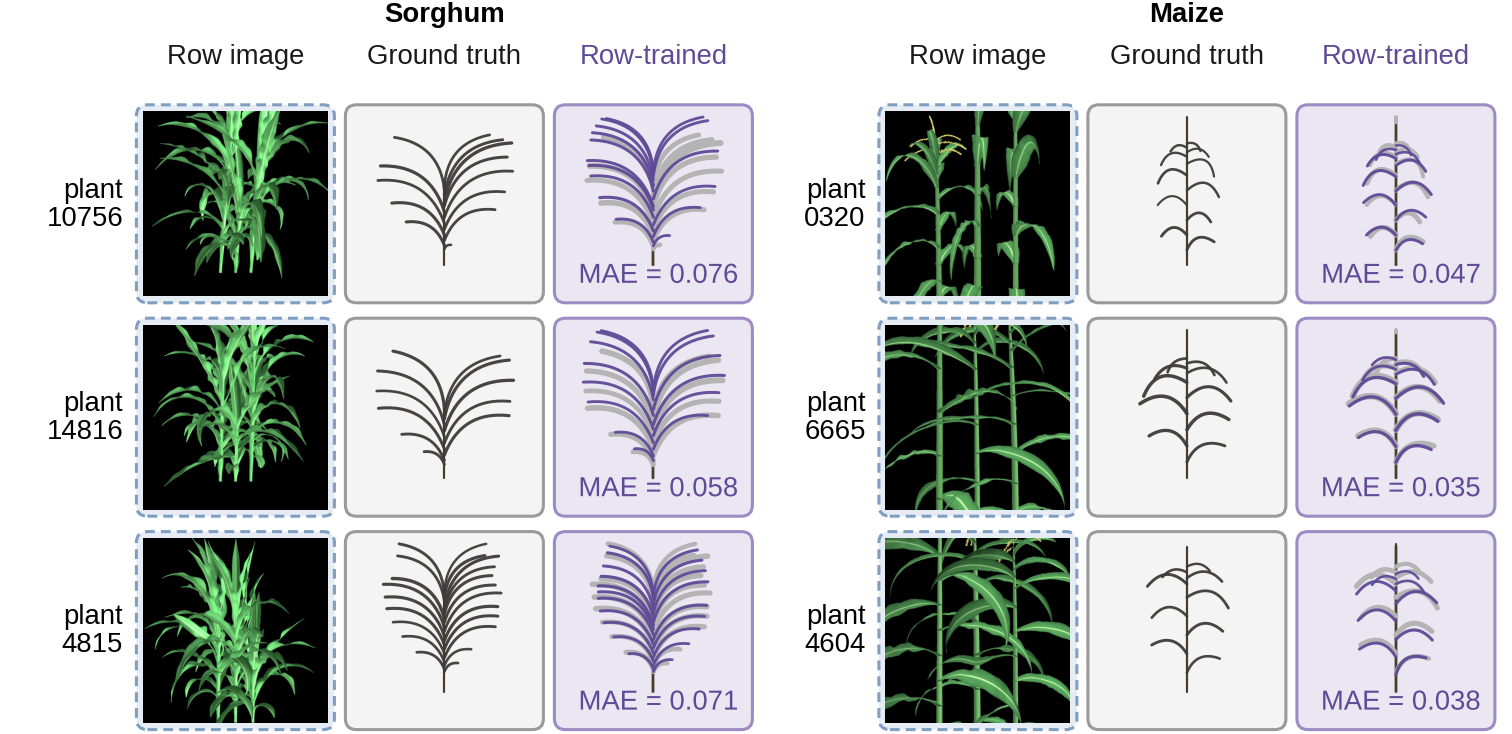
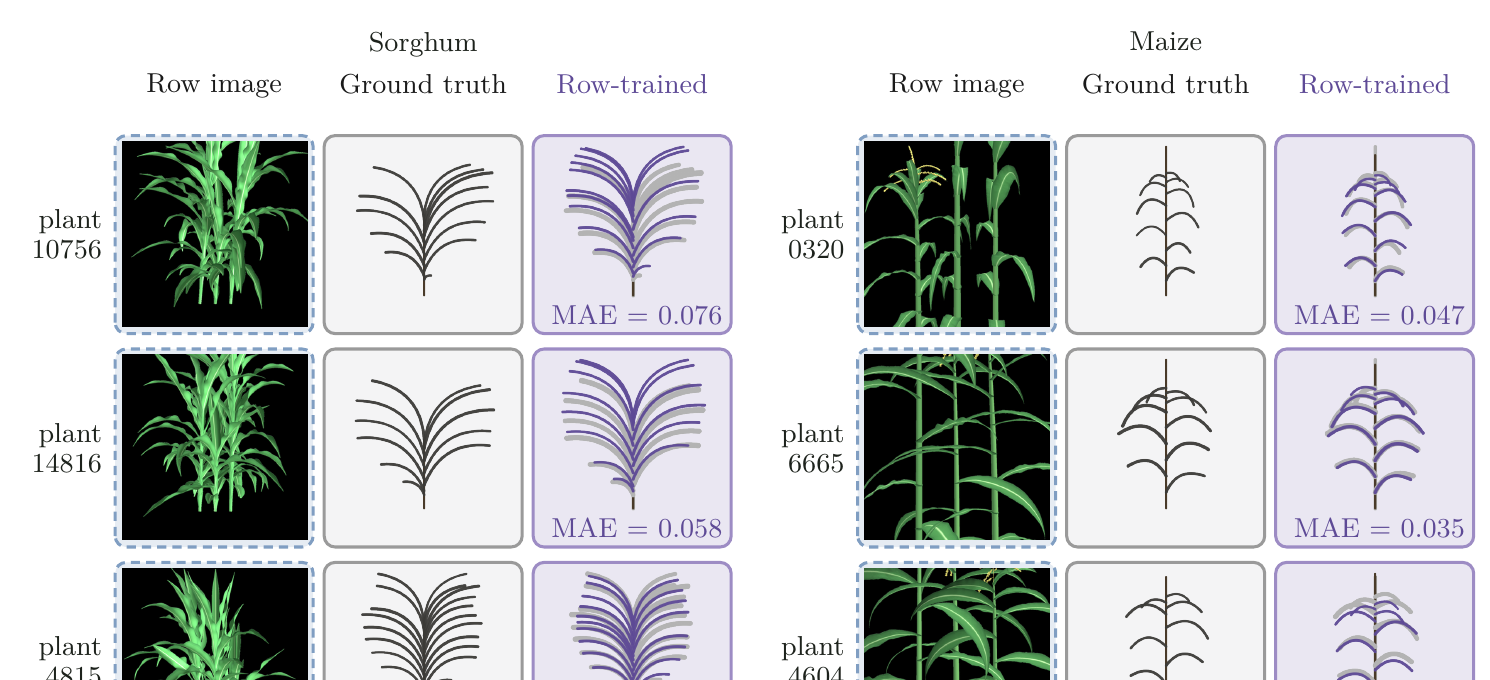
Fig. 5 as TikZ (user request): figures/make_fig5_tikz.py builds it on _scene.Scene like Figs. 2-3 (TikZ boxes and text, tiles in Figures/fig5/), same plants, procedural models and MAE values as the PDF version; main.tex and main_clean.tex input Figures/fig_rows_examples_tikz; both builds compile.

diff --git a/figures/pages/ugg_compare/index.html b/figures/pages/ugg_compare/index.html
@@ -114,7 +114,7 @@
   </section>
   <section aria-labelledby="h-fig-rows-examples">
     <h2 id="h-fig-rows-examples">Fig. 5 · Crop-row examples</h2>
-    <p><b>In the paper now: procedural models.</b> Same plants and the same row-trained predictions as before (rerun with the same seeds; every Chamfer value reproduced). The ground-truth column draws the center plant's true procedural model; the row-trained column draws the model the network writes (purple) over the truth (grey), with its leaf-parameter MAE (normalised fields, the error of Table 7; lower is better).</p>
+    <p><b>In the paper now: procedural models, as TikZ</b> (boxes and text in TikZ, tiles as embedded images, like Figs. 2 and 3; the right image is cropped from the compiled paper). Same plants and the same row-trained predictions as before (rerun with the same seeds; every Chamfer value reproduced). The ground-truth column draws the center plant's true procedural model; the row-trained column draws the model the network writes (purple) over the truth (grey), with its leaf-parameter MAE (normalised fields, the error of Table 7; lower is better).</p>
     <div class="pair">
       <figure class="paper"><div class="figbox"><img loading="lazy" src="img/fig_rows_examples_ugg.png" alt="Crop-row examples with point clouds and Chamfer"></div><figcaption>Previous (point clouds, CD)</figcaption></figure>
       <figure class="ugg"><div class="figbox"><img loading="lazy" src="img/fig_rows_examples_proc.png" alt="Crop-row examples with procedural models and leaf-parameter MAE"></div><figcaption>In the paper now (procedural models, MAE)</figcaption></figure>

diff --git a/paper/overleaf/Figures/fig_rows_examples_tikz.tex b/paper/overleaf/Figures/fig_rows_examples_tikz.tex
@@ -1,0 +1,72 @@
+% Generated by figures/_scene.py (Scene.render_tikz) for 'Fig 5 crop-row examples (procedural)'; do not edit by hand, re-run the figure script.
+% 6.875 x 3.3400000000000003 in at 100 %; needs \usetikzlibrary{arrows.meta}; images in Figures/fig5/.
+{%
+\definecolor{c1A1A1A}{HTML}{1A1A1A}%
+\definecolor{c1D221C}{HTML}{1D221C}%
+\definecolor{c5E4A96}{HTML}{5E4A96}%
+\definecolor{c809EC2}{HTML}{809EC2}%
+\definecolor{c9A9A9A}{HTML}{9A9A9A}%
+\definecolor{c9D8CC4}{HTML}{9D8CC4}%
+\definecolor{cE6ECF3}{HTML}{E6ECF3}%
+\definecolor{cEAE7F2}{HTML}{EAE7F2}%
+\definecolor{cF4F4F5}{HTML}{F4F4F5}%
+\begin{tikzpicture}[x=1in, y=1in]%
+\useasboundingbox (0,0) rectangle (6.8750,3.3400);
+\draw[draw=c809EC2, line width=1.000pt, fill=cE6ECF3, dash pattern=on 3.00pt off 2.00pt, rounded corners=0.0500in] (0.6200,1.9600) rectangle (1.5200,2.8600);
+\draw[draw=c9A9A9A, line width=1.000pt, fill=cF4F4F5, rounded corners=0.0500in] (1.5700,1.9600) rectangle (2.4700,2.8600);
+\draw[draw=c9D8CC4, line width=1.000pt, fill=cEAE7F2, rounded corners=0.0500in] (2.5200,1.9600) rectangle (3.4200,2.8600);
+\draw[draw=c809EC2, line width=1.000pt, fill=cE6ECF3, dash pattern=on 3.00pt off 2.00pt, rounded corners=0.0500in] (0.6200,0.9900) rectangle (1.5200,1.8900);
+\draw[draw=c9A9A9A, line width=1.000pt, fill=cF4F4F5, rounded corners=0.0500in] (1.5700,0.9900) rectangle (2.4700,1.8900);
+\draw[draw=c9D8CC4, line width=1.000pt, fill=cEAE7F2, rounded corners=0.0500in] (2.5200,0.9900) rectangle (3.4200,1.8900);
+\draw[draw=c809EC2, line width=1.000pt, fill=cE6ECF3, dash pattern=on 3.00pt off 2.00pt, rounded corners=0.0500in] (0.6200,0.0200) rectangle (1.5200,0.9200);
+\draw[draw=c9A9A9A, line width=1.000pt, fill=cF4F4F5, rounded corners=0.0500in] (1.5700,0.0200) rectangle (2.4700,0.9200);
+\draw[draw=c9D8CC4, line width=1.000pt, fill=cEAE7F2, rounded corners=0.0500in] (2.5200,0.0200) rectangle (3.4200,0.9200);
+\draw[draw=c809EC2, line width=1.000pt, fill=cE6ECF3, dash pattern=on 3.00pt off 2.00pt, rounded corners=0.0500in] (3.9950,1.9600) rectangle (4.8950,2.8600);
+\draw[draw=c9A9A9A, line width=1.000pt, fill=cF4F4F5, rounded corners=0.0500in] (4.9450,1.9600) rectangle (5.8450,2.8600);
+\draw[draw=c9D8CC4, line width=1.000pt, fill=cEAE7F2, rounded corners=0.0500in] (5.8950,1.9600) rectangle (6.7950,2.8600);
+\draw[draw=c809EC2, line width=1.000pt, fill=cE6ECF3, dash pattern=on 3.00pt off 2.00pt, rounded corners=0.0500in] (3.9950,0.9900) rectangle (4.8950,1.8900);
+\draw[draw=c9A9A9A, line width=1.000pt, fill=cF4F4F5, rounded corners=0.0500in] (4.9450,0.9900) rectangle (5.8450,1.8900);
+\draw[draw=c9D8CC4, line width=1.000pt, fill=cEAE7F2, rounded corners=0.0500in] (5.8950,0.9900) rectangle (6.7950,1.8900);
+\draw[draw=c809EC2, line width=1.000pt, fill=cE6ECF3, dash pattern=on 3.00pt off 2.00pt, rounded corners=0.0500in] (3.9950,0.0200) rectangle (4.8950,0.9200);
+\draw[draw=c9A9A9A, line width=1.000pt, fill=cF4F4F5, rounded corners=0.0500in] (4.9450,0.0200) rectangle (5.8450,0.9200);
+\draw[draw=c9D8CC4, line width=1.000pt, fill=cEAE7F2, rounded corners=0.0500in] (5.8950,0.0200) rectangle (6.7950,0.9200);
+\node[anchor=south west, inner sep=0] at (0.6500,1.9900) {\includegraphics[width=0.8400in, height=0.8400in]{Figures/fig5/sorghum_Sorghum_10756_90_Row_image.png}};
+\node[anchor=south west, inner sep=0] at (1.6000,1.9900) {\includegraphics[width=0.8400in, height=0.8400in]{Figures/fig5/sorghum_Sorghum_10756_90_Ground_truth.png}};
+\node[anchor=south west, inner sep=0] at (2.5500,1.9900) {\includegraphics[width=0.8400in, height=0.8400in]{Figures/fig5/sorghum_Sorghum_10756_90_Row_trained.png}};
+\node[anchor=south west, inner sep=0] at (0.6500,1.0200) {\includegraphics[width=0.8400in, height=0.8400in]{Figures/fig5/sorghum_Sorghum_14816_0_Row_image.png}};
+\node[anchor=south west, inner sep=0] at (1.6000,1.0200) {\includegraphics[width=0.8400in, height=0.8400in]{Figures/fig5/sorghum_Sorghum_14816_0_Ground_truth.png}};
+\node[anchor=south west, inner sep=0] at (2.5500,1.0200) {\includegraphics[width=0.8400in, height=0.8400in]{Figures/fig5/sorghum_Sorghum_14816_0_Row_trained.png}};
+\node[anchor=south west, inner sep=0] at (0.6500,0.0500) {\includegraphics[width=0.8400in, height=0.8400in]{Figures/fig5/sorghum_Sorghum_4815_0_Row_image.png}};
+\node[anchor=south west, inner sep=0] at (1.6000,0.0500) {\includegraphics[width=0.8400in, height=0.8400in]{Figures/fig5/sorghum_Sorghum_4815_0_Ground_truth.png}};
+\node[anchor=south west, inner sep=0] at (2.5500,0.0500) {\includegraphics[width=0.8400in, height=0.8400in]{Figures/fig5/sorghum_Sorghum_4815_0_Row_trained.png}};
+\node[anchor=south west, inner sep=0] at (4.0250,1.9900) {\includegraphics[width=0.8400in, height=0.8400in]{Figures/fig5/maize_plant_0320_90_Row_image.png}};
+\node[anchor=south west, inner sep=0] at (4.9750,1.9900) {\includegraphics[width=0.8400in, height=0.8400in]{Figures/fig5/maize_plant_0320_90_Ground_truth.png}};
+\node[anchor=south west, inner sep=0] at (5.9250,1.9900) {\includegraphics[width=0.8400in, height=0.8400in]{Figures/fig5/maize_plant_0320_90_Row_trained.png}};
+\node[anchor=south west, inner sep=0] at (4.0250,1.0200) {\includegraphics[width=0.8400in, height=0.8400in]{Figures/fig5/maize_plant_6665_0_Row_image.png}};
+\node[anchor=south west, inner sep=0] at (4.9750,1.0200) {\includegraphics[width=0.8400in, height=0.8400in]{Figures/fig5/maize_plant_6665_0_Ground_truth.png}};
+\node[anchor=south west, inner sep=0] at (5.9250,1.0200) {\includegraphics[width=0.8400in, height=0.8400in]{Figures/fig5/maize_plant_6665_0_Row_trained.png}};
+\node[anchor=south west, inner sep=0] at (4.0250,0.0500) {\includegraphics[width=0.8400in, height=0.8400in]{Figures/fig5/maize_plant_4604_0_Row_image.png}};
+\node[anchor=south west, inner sep=0] at (4.9750,0.0500) {\includegraphics[width=0.8400in, height=0.8400in]{Figures/fig5/maize_plant_4604_0_Ground_truth.png}};
+\node[anchor=south west, inner sep=0] at (5.9250,0.0500) {\includegraphics[width=0.8400in, height=0.8400in]{Figures/fig5/maize_plant_4604_0_Row_trained.png}};
+\node[anchor=north, inner sep=0, outer sep=0, align=center, text=c1D221C, font={\fontsize{9.00}{11.25}\selectfont\sffamily\bfseries}] at (2.0200,3.3300) {Sorghum};
+\node[anchor=north, inner sep=0, outer sep=0, align=center, text=c1A1A1A, font={\fontsize{9.00}{11.25}\selectfont\sffamily}] at (1.0700,3.1400) {Row image};
+\node[anchor=north, inner sep=0, outer sep=0, align=center, text=c1A1A1A, font={\fontsize{9.00}{11.25}\selectfont\sffamily}] at (2.0200,3.1400) {Ground truth};
+\node[anchor=north, inner sep=0, outer sep=0, align=center, text=c5E4A96, font={\fontsize{9.00}{11.25}\selectfont\sffamily}] at (2.9700,3.1400) {Row-trained};
+\node[anchor=south east, inner sep=0, outer sep=0, align=right, text=c5E4A96, font={\fontsize{9.00}{11.25}\selectfont\sffamily}] at (3.3800,2.0000) {MAE = 0.076};
+\node[anchor=east, inner sep=0, outer sep=0, align=right, text=c1D221C, font={\fontsize{9.00}{9.90}\selectfont\sffamily}] at (0.5600,2.4100) {plant\\10756};
+\node[anchor=south east, inner sep=0, outer sep=0, align=right, text=c5E4A96, font={\fontsize{9.00}{11.25}\selectfont\sffamily}] at (3.3800,1.0300) {MAE = 0.058};
+\node[anchor=east, inner sep=0, outer sep=0, align=right, text=c1D221C, font={\fontsize{9.00}{9.90}\selectfont\sffamily}] at (0.5600,1.4400) {plant\\14816};
+\node[anchor=south east, inner sep=0, outer sep=0, align=right, text=c5E4A96, font={\fontsize{9.00}{11.25}\selectfont\sffamily}] at (3.3800,0.0600) {MAE = 0.071};
+\node[anchor=east, inner sep=0, outer sep=0, align=right, text=c1D221C, font={\fontsize{9.00}{9.90}\selectfont\sffamily}] at (0.5600,0.4700) {plant\\4815};
+\node[anchor=north, inner sep=0, outer sep=0, align=center, text=c1D221C, font={\fontsize{9.00}{11.25}\selectfont\sffamily\bfseries}] at (5.3950,3.3300) {Maize};
+\node[anchor=north, inner sep=0, outer sep=0, align=center, text=c1A1A1A, font={\fontsize{9.00}{11.25}\selectfont\sffamily}] at (4.4450,3.1400) {Row image};
+\node[anchor=north, inner sep=0, outer sep=0, align=center, text=c1A1A1A, font={\fontsize{9.00}{11.25}\selectfont\sffamily}] at (5.3950,3.1400) {Ground truth};
+\node[anchor=north, inner sep=0, outer sep=0, align=center, text=c5E4A96, font={\fontsize{9.00}{11.25}\selectfont\sffamily}] at (6.3450,3.1400) {Row-trained};
+\node[anchor=south east, inner sep=0, outer sep=0, align=right, text=c5E4A96, font={\fontsize{9.00}{11.25}\selectfont\sffamily}] at (6.7550,2.0000) {MAE = 0.047};
+\node[anchor=east, inner sep=0, outer sep=0, align=right, text=c1D221C, font={\fontsize{9.00}{9.90}\selectfont\sffamily}] at (3.9350,2.4100) {plant\\0320};
+\node[anchor=south east, inner sep=0, outer sep=0, align=right, text=c5E4A96, font={\fontsize{9.00}{11.25}\selectfont\sffamily}] at (6.7550,1.0300) {MAE = 0.035};
+\node[anchor=east, inner sep=0, outer sep=0, align=right, text=c1D221C, font={\fontsize{9.00}{9.90}\selectfont\sffamily}] at (3.9350,1.4400) {plant\\6665};
+\node[anchor=south east, inner sep=0, outer sep=0, align=right, text=c5E4A96, font={\fontsize{9.00}{11.25}\selectfont\sffamily}] at (6.7550,0.0600) {MAE = 0.038};
+\node[anchor=east, inner sep=0, outer sep=0, align=right, text=c1D221C, font={\fontsize{9.00}{9.90}\selectfont\sffamily}] at (3.9350,0.4700) {plant\\4604};
+\end{tikzpicture}%
+}%

diff --git a/figures/make_fig5_tikz.py b/figures/make_fig5_tikz.py
@@ -1,0 +1,80 @@
+"""Paper Fig. 5 (crop-row examples, procedural models) as TikZ (user, 2026-11-13: "can you make fig 5 as tikz?").
+
+Same figure as make_ugg_figs.py --fig5 (fig_rows_examples_ugg5_proc): sorghum left, maize right, three test rows each;
+columns row image | ground-truth procedural model | the row-trained model's written procedural model (purple) over the
+truth (grey) with its leaf-parameter MAE. Same plants, yaws, predictions and numbers (row_gallery_dump.pkl for the images,
+row_gallery_recipes.pkl from make_rows_recipe_dump.py for the recipes). Built on _scene.Scene like Figs. 2 and 3: boxes and
+text are TikZ, each tile's content is an embedded PNG (Figures/fig5/).
+  sbatch --wait --partition=nova --account=mech-ai --qos=normal --cpus-per-task=2 --mem=8G --output=logs/%x_%j.out \
+         --wrap "python figures/make_fig5_tikz.py"
+-> paper/overleaf/Figures/fig_rows_examples_tikz.tex + Figures/fig5/, preview paper/figs/ugg_preview/fig_rows_examples_tikz.{pdf,png}
+"""
+import sys, pathlib, pickle
+R = pathlib.Path(__file__).resolve().parents[1]; sys.path[:0] = [str(R), str(R / 'figures'), str(R / 'eval')]
+import matplotlib
+matplotlib.use('Agg')
+import matplotlib.pyplot as plt
+from _scene import Scene
+import _fig12_kit as K
+import make_row_gallery_v2 as RG
+from ugg_style import STREAM, STREAM_INK, STREAM_FILL
+
+PICKS = {'sorghum': [('Sorghum_10756', 90), ('Sorghum_14816', 0), ('Sorghum_4815', 0)],     # = make_ugg_figs.py --fig5
+         'maize': [('plant_0320', 90), ('plant_6665', 0), ('plant_4604', 0)]}
+INK, TRUTH_INK, TRUTH_UNDER, STEM = '#1a1a1a', '#3c3b38', '#b4b4b4', '#4a3b2a'
+NEUTRAL_E, NEUTRAL_F = '#9a9a9a', '#f4f4f5'
+F = 9.0
+W, s, g, gy, lab, nc, m = 6.875, 0.90, 0.05, 0.07, 0.62, 3, 0.03
+TEX = R / 'paper/overleaf/Figures/fig_rows_examples_tikz.tex'
+
+
+def lims(recs, sp):
+    """make_ugg_figs._rec_lims: one square frame for truth and prediction, room at the bottom for the MAE label."""
+    f = plt.figure(); a = f.add_axes([0, 0, 1, 1])
+    for r in recs: K.glyph(a, sp, r, '#000000')
+    bb = a.dataLim; plt.close(f)
+    w = max(abs(bb.x0), abs(bb.x1)); y0 = min(bb.y0, 0.0); st = max(2 * w, bb.y1 - y0) * 1.06 * 1.18
+    return (-st / 2, st / 2), (y0 - 0.17 * st, y0 + 0.83 * st)
+
+
+def glyph_png(sp, layers, lm, side):
+    fig = plt.figure(figsize=(side, side), dpi=600); ax = fig.add_axes([0, 0, 1, 1]); ax.set_axis_off()
+    lw = 0.42 * side / 0.735
+    for rec, col, stem, k in layers:
+        K.glyph(ax, sp, rec, col, stem=stem, lw_scale=lw * k, alpha=1.0 if k > 1 else 0.95)
+    ax.set_xlim(*lm[0]); ax.set_ylim(*lm[1]); ax.set_aspect('equal')
+    return K.png_fig(fig, 600)
+
+
+if __name__ == '__main__':
+    D = pickle.load(open(RG.OUT, 'rb')); REC = pickle.load(open(RG.OUT.with_name('row_gallery_recipes.pkl'), 'rb'))
+    half = lab + nc * s + (nc - 1) * g; hdr = 0.48; n = 3
+    H = hdr + n * s + (n - 1) * gy + 0.02
+    S = Scene(W, H, 'Fig 5 crop-row examples (procedural)')
+    head = [('Row image', INK), ('Ground truth', INK), ('Row-trained', STREAM_INK['text'])]
+    box = {0: (STREAM['rgb'], STREAM_FILL['rgb'], True), 1: (NEUTRAL_E, NEUTRAL_F, False), 2: (STREAM['text'], STREAM_FILL['text'], False)}
+    inner = s - 2 * m
+    for c, sp in enumerate(('sorghum', 'maize')):
+        x0 = c * (W - half - 0.08)
+        S.text(x0 + lab + (nc * s + (nc - 1) * g) / 2, H - 0.01, sp.capitalize(), F, ha='center', va='top', bold=True)
+        for k, (t, col) in enumerate(head):
+            S.text(x0 + lab + k * (s + g) + s / 2, H - 0.20, t, F, color=col, ha='center', va='top')
+        y = H - hdr
+        for pl, th in PICKS[sp]:
+            y -= s
+            it = D[sp]['items'][(pl, th)]; r = REC[sp][(pl, th)]; lm = lims([r['true'], r['ft']], sp)
+            tiles = [K.png_array(it['img'] / 255.0),
+                     glyph_png(sp, [(r['true'], TRUTH_INK, STEM, 1.0)], lm, inner),
+                     glyph_png(sp, [(r['true'], TRUTH_UNDER, TRUTH_UNDER, 1.8), (r['ft'], STREAM_INK['text'], STEM, 1.0)], lm, inner)]
+            for k, png in enumerate(tiles):
+                xk = x0 + lab + k * (s + g); e, f_, dash = box[k]
+                S.rect(xk, y, s, s, e, lw=1.0, fill=f_, r=0.05, dash=dash)
+                S.image(xk + m, y + m, inner, inner, png, f'{sp} {pl} {th} {head[k][0]}')
+            S.text(x0 + lab + 2 * (s + g) + s - 0.04, y + 0.04, f"MAE = {r['ft_leaf_mae']:.3f}", F, color=STREAM_INK['text'],
+                   ha='right', va='bottom')
+            S.text(x0 + lab - 0.06, y + s / 2, f"plant\n{pl.split('_')[-1]}", F, ha='right', va='center', ls=1.1)
+            y -= gy
+    out = R / 'paper/figs/ugg_preview/fig_rows_examples_tikz'
+    S.render(out)
+    S.render_tikz(TEX, TEX.parent / 'fig5', 'Figures/fig5')
+    print('wrote', TEX, flush=True)

diff --git a/paper/overleaf/main.tex b/paper/overleaf/main.tex
@@ -204,7 +204,7 @@ To train and benchmark \method{} under controlled yet realistic field conditions
 
 \begin{figure*}[t]
   \centering
-  \includegraphics[width=\linewidth]{Figures/fig_rows_examples_ugg_proc.pdf}
+  \resizebox{\linewidth}{!}{\input{Figures/fig_rows_examples_tikz}}
   \caption{\textbf{Reconstructing occluded target plants in simulated crop rows.} Results on held-out sorghum (left) and maize (right) test rows. Columns show the input row photograph (including adjacent neighbors), the ground-truth procedural model of the center target plant (drawn as a stem-and-leaf schematic), and the procedural model written by our row-trained model (purple) over the ground truth (grey), with its leaf-parameter MAE (normalized fields, as in Table~\ref{tab:rows}; lower is better) noted below. Examples are selected from plants where the row-trained model (by Chamfer distance) ranks in its top 35\% and the isolated-trained control ranks in its bottom 40\% across both broadside and end-on views; Figs.~\ref{fig:supp-rows-sorghum} and~\ref{fig:supp-rows-maize} show ten additional test plants per species sampled evenly across the full error distribution.}
   \label{fig:rowsex}
 \end{figure*}

diff --git a/paper/overleaf/main_clean.tex b/paper/overleaf/main_clean.tex
@@ -204,7 +204,7 @@ To train and benchmark \method{} under controlled yet realistic field conditions
 
 \begin{figure*}[t]
   \centering
-  \includegraphics[width=\linewidth]{Figures/fig_rows_examples_ugg_proc.pdf}
+  \resizebox{\linewidth}{!}{\input{Figures/fig_rows_examples_tikz}}
   \caption{\textbf{Reconstructing occluded target plants in simulated crop rows.} Results on held-out sorghum (left) and maize (right) test rows. Columns show the input row photograph (including adjacent neighbors), the ground-truth procedural model of the center target plant (drawn as a stem-and-leaf schematic), and the procedural model written by our row-trained model (purple) over the ground truth (grey), with its leaf-parameter MAE (normalized fields, as in Table~\ref{tab:rows}; lower is better) noted below. Examples are selected from plants where the row-trained model (by Chamfer distance) ranks in its top 35\% and the isolated-trained control ranks in its bottom 40\% across both broadside and end-on views; Figs.~\ref{fig:supp-rows-sorghum} and~\ref{fig:supp-rows-maize} show ten additional test plants per species sampled evenly across the full error distribution.}
   \label{fig:rowsex}
 \end{figure*}
